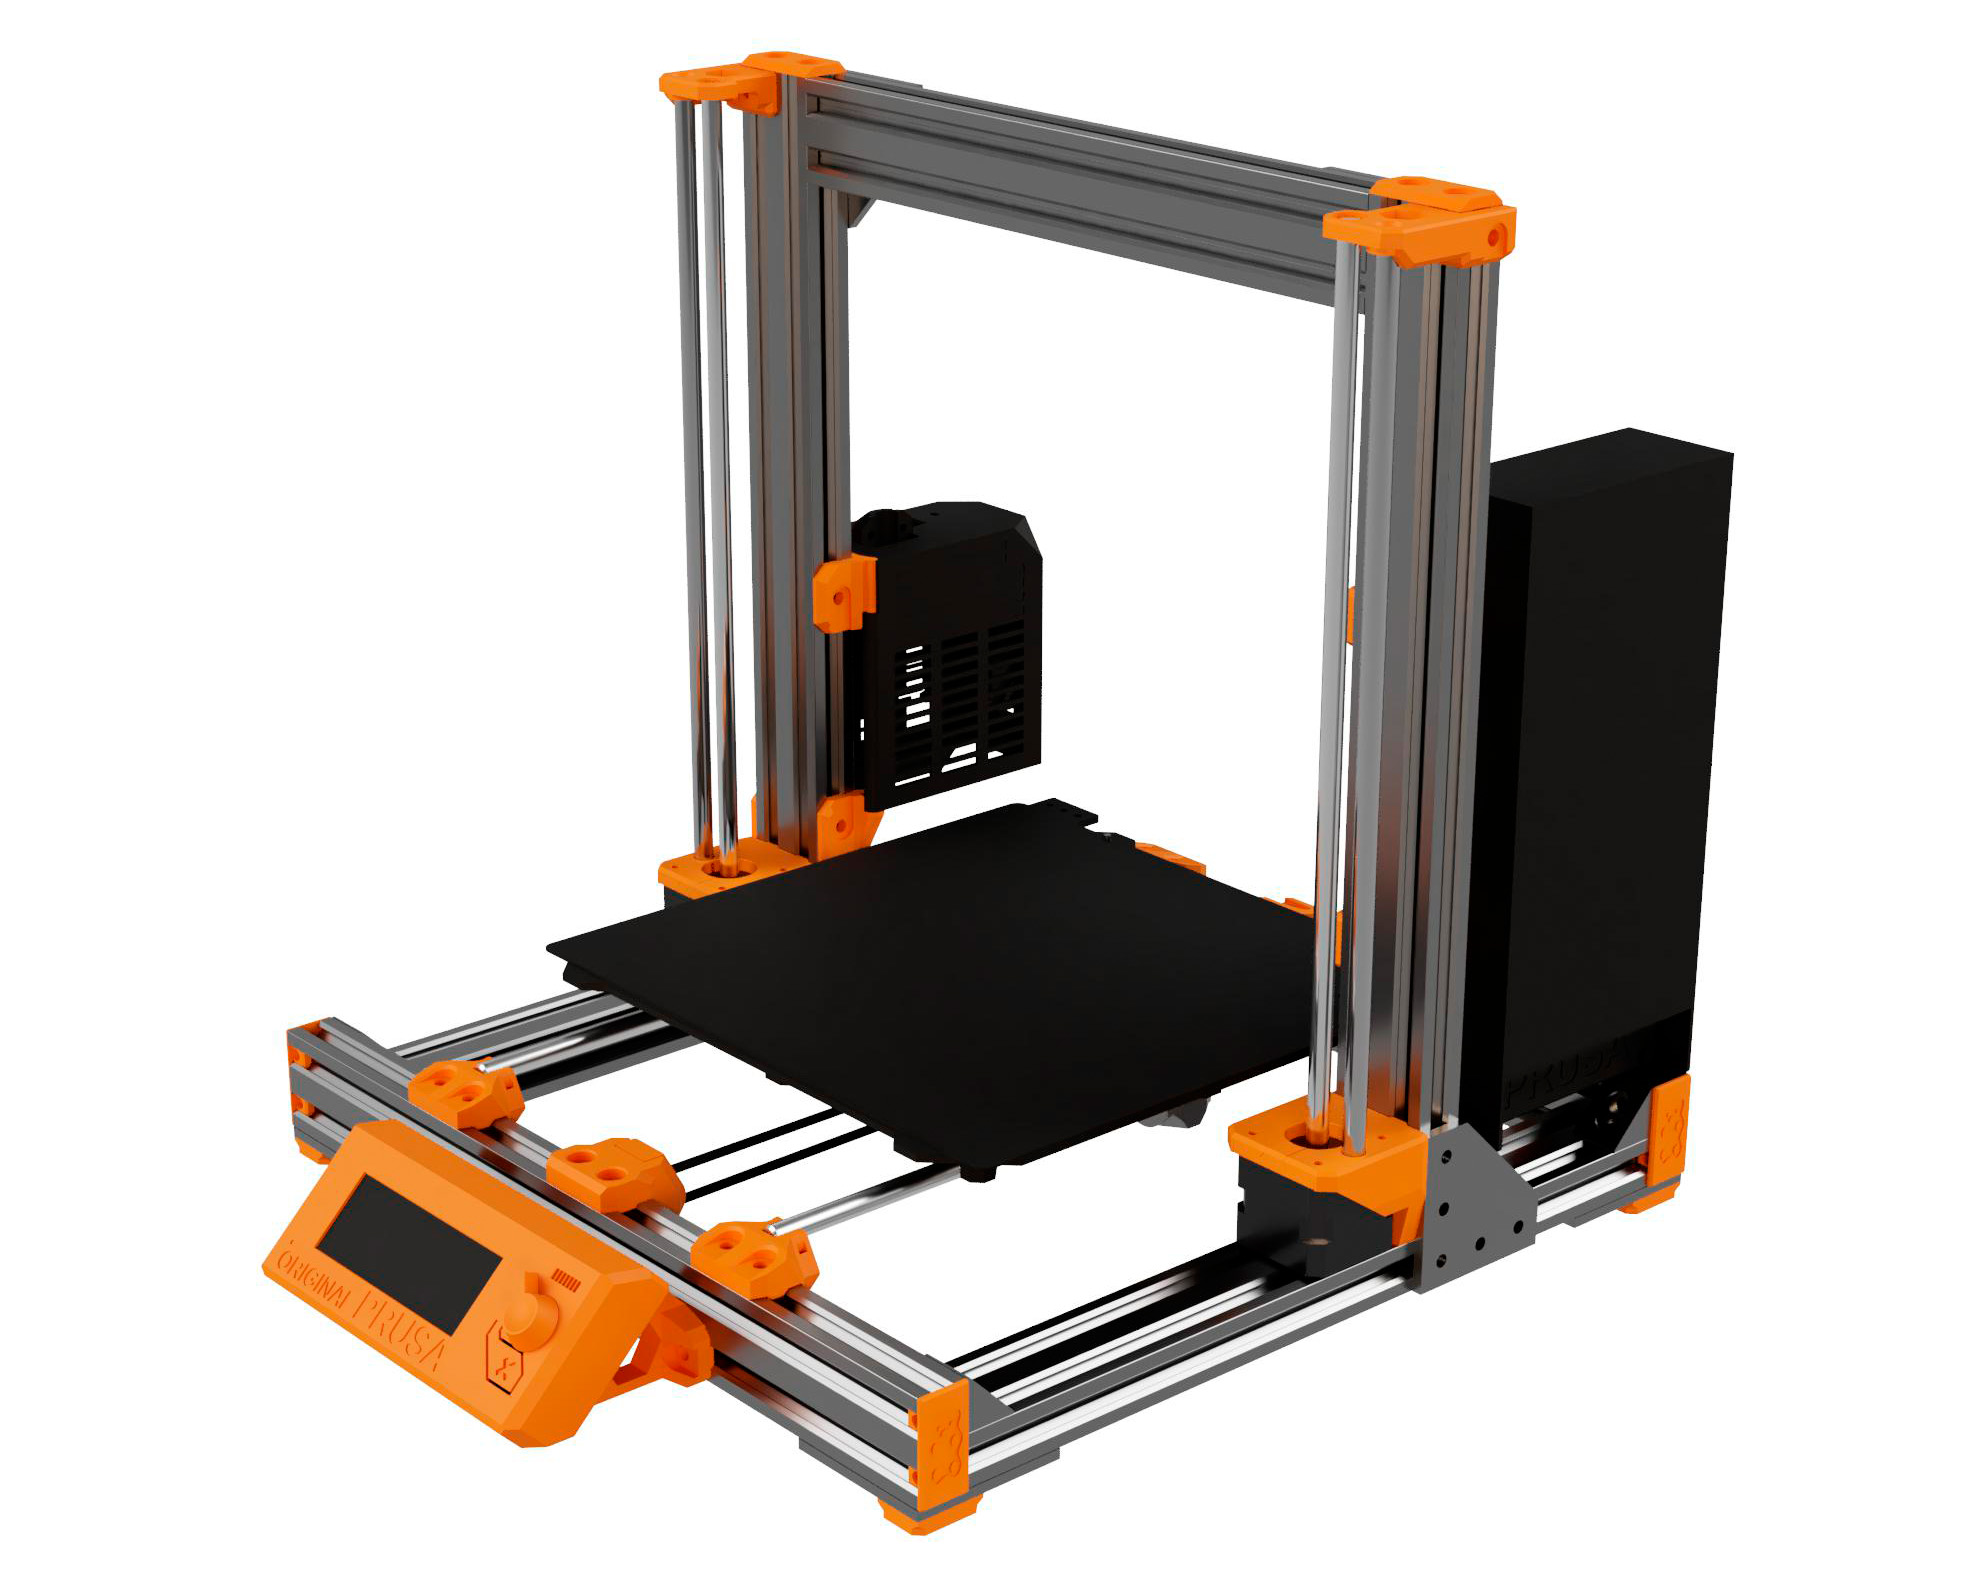
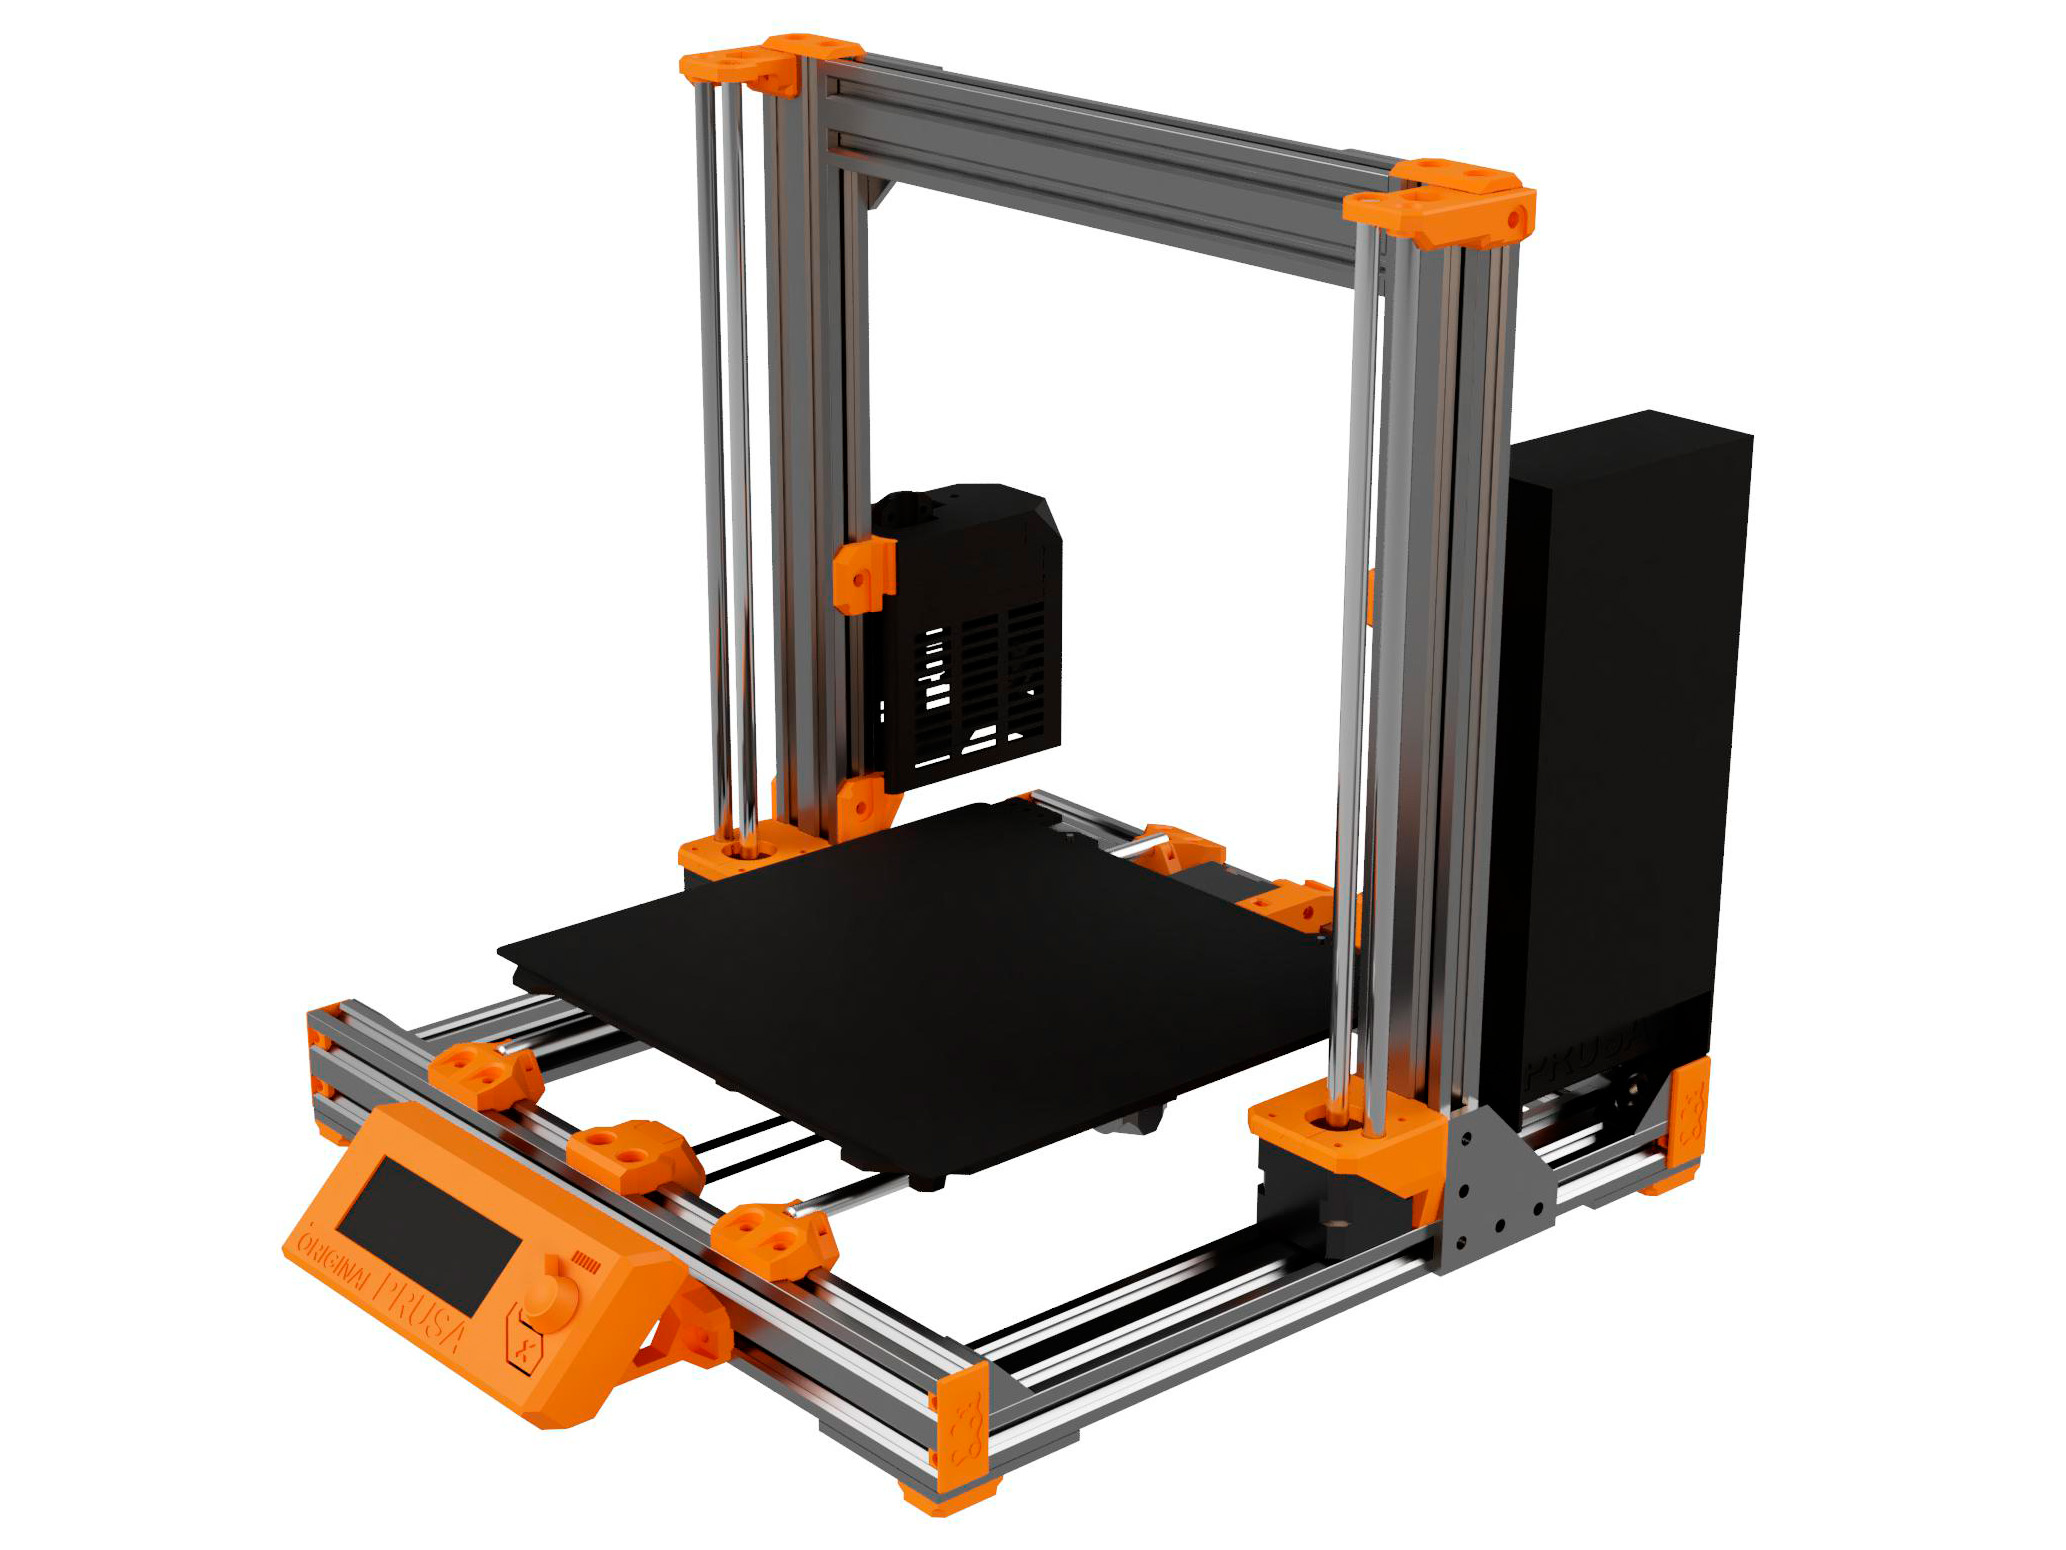
add smaller rendering for main page

Changed region(s): [[0.1234, 0.0, 0.8943, 0.991]]

diff --git a/README.md b/README.md
@@ -9,7 +9,7 @@
 
 This is a stiffer and more reliable frame for original [Prusa i3 MK2S, MK2.5(S) and MK3(S)](https://www.prusa3d.com/).
 
-![Bear Upgrade MK3S](doc/rendering/mk3_home_left.jpg)
+![Bear Upgrade MK3S](doc/rendering/mk3_home_left_882px.jpg)
 
 
 
